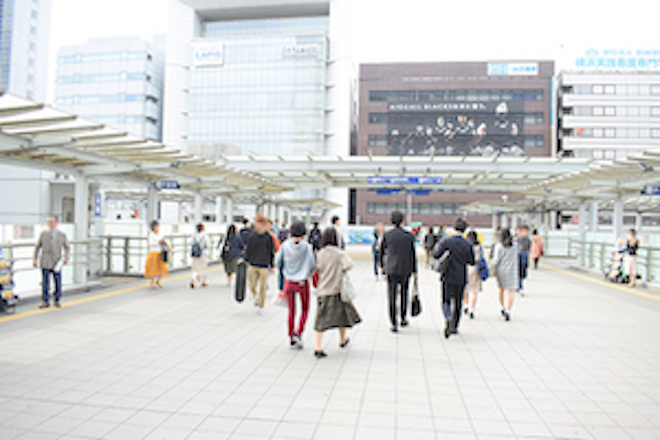
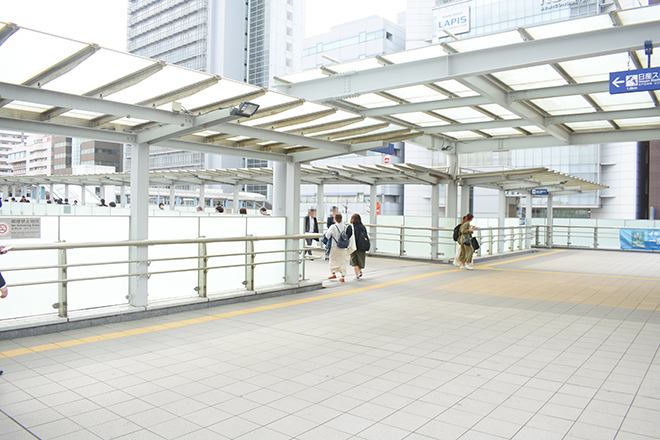
aa

diff --git a/shop-shinyokohama.html b/shop-shinyokohama.html
@@ -139,10 +139,17 @@
             <p class="card-text">⑤ラーメン博物館手前のビル７階に当サロンがございます。</p>
           </div>
           <div class="card-footer">
-            <small class="text-muted">エレベーター出口の右側です</small>
+            <small class="text-muted">一階は「澄仙」の焼肉屋さんです。</small>
           </div>
         </div>
-        <div class="card border-0">
+        <div class="card">
+          <img alt="Card image cap" class="card-img-top" src="img/access-s6.jpg">
+          <div class="card-body">
+            <p class="card-text">⑥ガラス張りのドアで、中の様子が見えるようになっています。</p>
+          </div>
+          <div class="card-footer">
+            <small class="text-muted">エレベーター出口の右側です</small>
+          </div>
         </div>
       </div>
 
